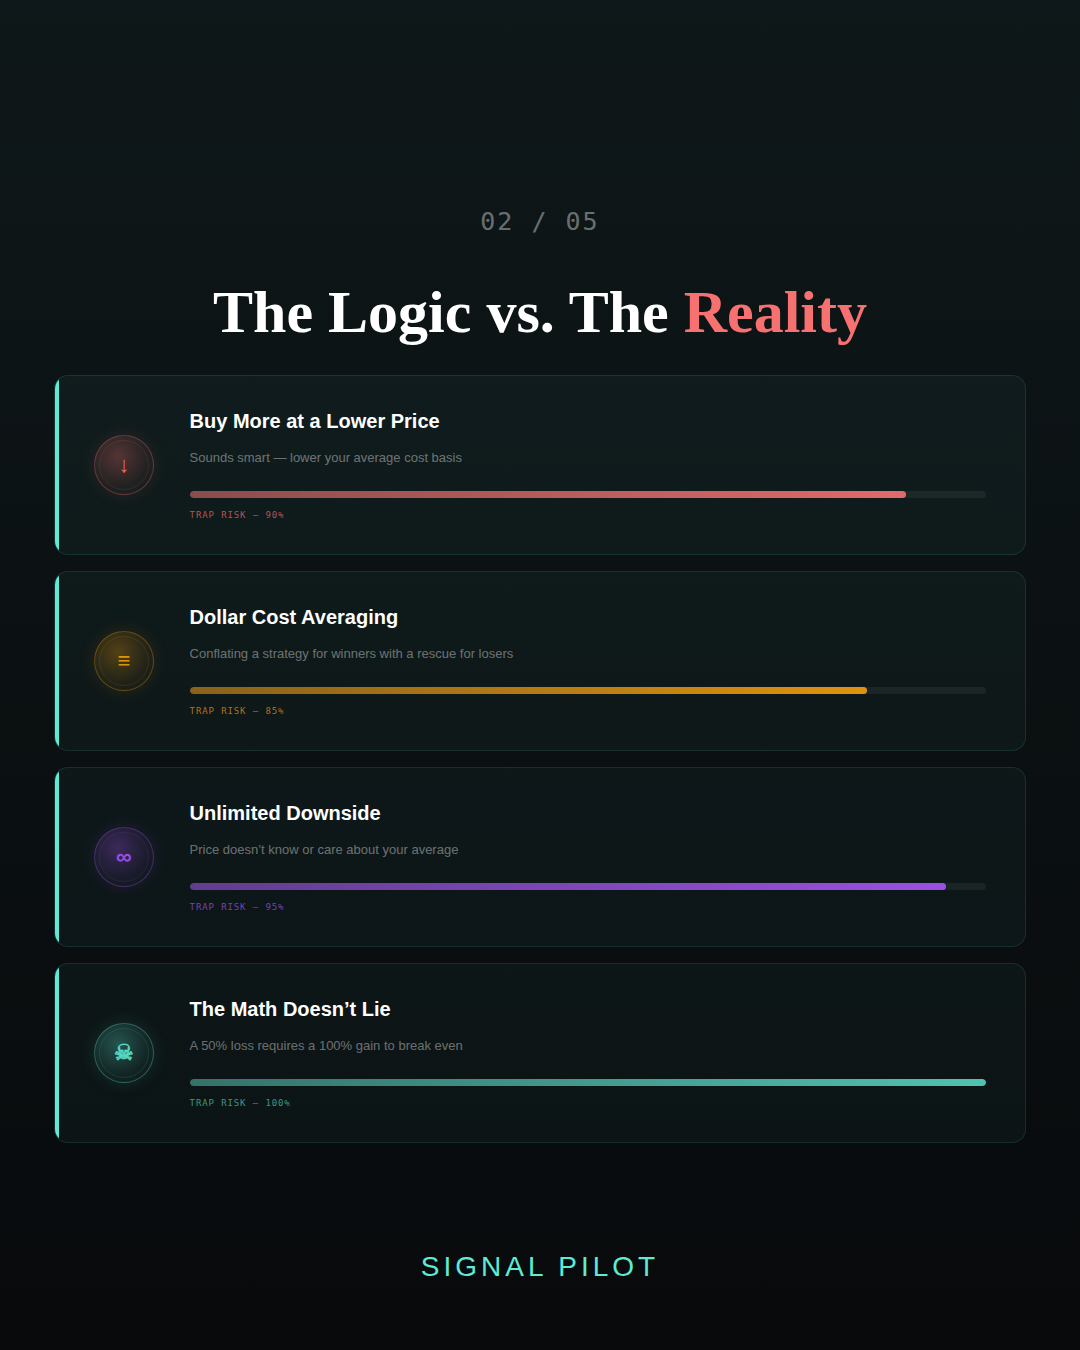
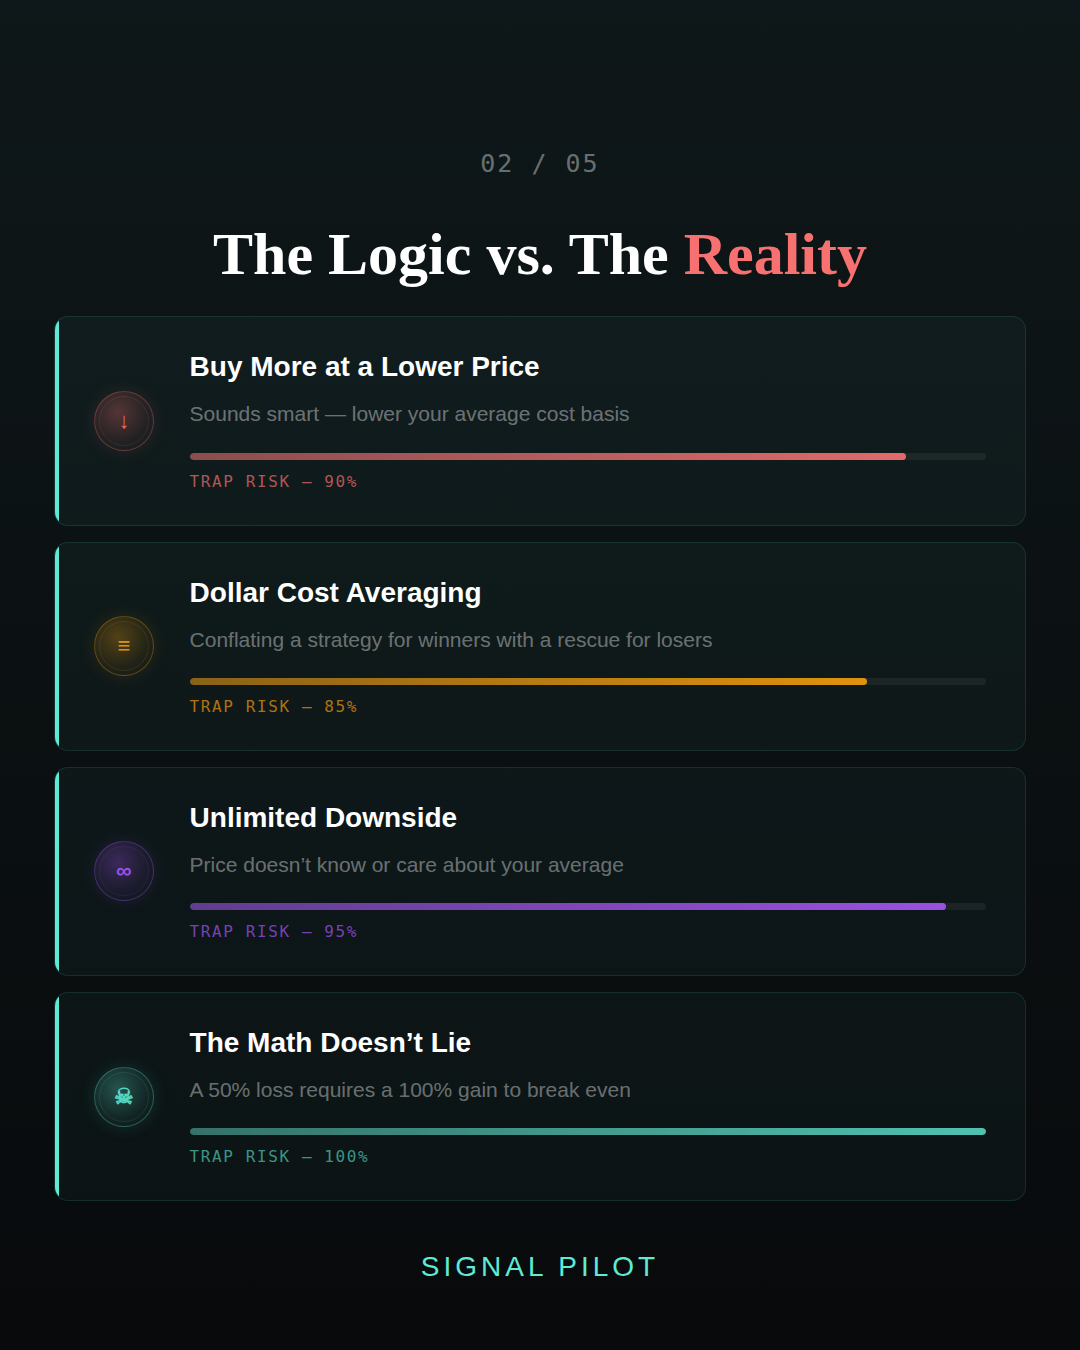
Fix text readability in carousel renders - boost font sizes for Instagram
- Increase danger labels from 6-9px to 11-16px (83% boost)
- Boost body text in liq-why from 8-13px to 13-21px (76% boost)
- Enlarge liq-where labels from 11-20px to 16-28px (43% boost)
- Bump section titles from 18-40px to 28-55px (40% boost)
- Double slide counter from 8-12px to 13-20px
- Update global signal items and divergence box sizing in render-carousels.js

Re-rendered post-067 slide-2.png with new CSS. Text now easily readable on mobile.

https://claude.ai/code/session_01CTTG9WrGEtF4ZSqGLQRbKv

diff --git a/INSTAGRAM_CONTENT_HUB/social/post-067/carousel.html b/INSTAGRAM_CONTENT_HUB/social/post-067/carousel.html
@@ -149,14 +149,14 @@
        ═══════════════════════════════════════════ */
     .slide-counter {
       font-family: var(--font-mono);
-      font-size: clamp(8px, 1.3cqw, 12px);
+      font-size: clamp(13px, 2.2cqw, 20px);
       color: var(--text-muted);
       letter-spacing: 0.15em;
       margin-bottom: 3%;
     }
     .section-title {
       font-family: var(--font-serif);
-      font-size: clamp(18px, 3.8cqw, 40px);
+      font-size: clamp(28px, 5.5cqw, 55px);
       font-weight: 600;
       color: var(--text-primary);
       margin-bottom: 5%;
@@ -258,14 +258,14 @@
     .liq-info { flex: 1; min-width: 0; }
     .liq-where {
       font-family: var(--font-sans);
-      font-size: clamp(11px, 2cqw, 20px);
+      font-size: clamp(16px, 2.8cqw, 28px);
       font-weight: 600;
       color: var(--text-primary);
       margin-bottom: 2%;
     }
     .liq-why {
       font-family: var(--font-sans);
-      font-size: clamp(8px, 1.3cqw, 13px);
+      font-size: clamp(13px, 2.2cqw, 21px);
       color: var(--text-muted);
       line-height: 1.4;
       margin-bottom: 3%;
@@ -288,7 +288,7 @@
     .danger-fill.elevated { background: linear-gradient(90deg, rgba(94,234,212,0.4), rgba(94,234,212,0.8)); }
     .danger-label {
       font-family: var(--font-mono);
-      font-size: clamp(6px, 1cqw, 9px);
+      font-size: clamp(11px, 1.8cqw, 16px);
       letter-spacing: 0.1em;
       text-transform: uppercase;
       margin-top: 1.5%;

diff --git a/scripts/render-carousels.js b/scripts/render-carousels.js
@@ -158,19 +158,19 @@ async function renderCarousel(page, postDir, postNumber) {
 
       /* Signal items */
       .signal-item .label, .signal-item .name {
-        font-size: clamp(21px, 5.2cqw, 32px) !important;
+        font-size: clamp(28px, 6.9cqw, 41px) !important;
       }
       .signal-item .arrow, .signal-item .icon {
-        font-size: clamp(37px, 9.2cqw, 55px) !important;
+        font-size: clamp(46px, 11.5cqw, 70px) !important;
       }
 
       /* Divergence boxes */
       .divergence-title, .divergence-label {
-        font-size: clamp(28px, 6.9cqw, 41px) !important;
+        font-size: clamp(32px, 8cqw, 51px) !important;
         font-weight: 700 !important;
       }
       .divergence-desc {
-        font-size: clamp(23px, 6.3cqw, 37px) !important;
+        font-size: clamp(28px, 6.9cqw, 41px) !important;
       }
 
       /* Icons */
